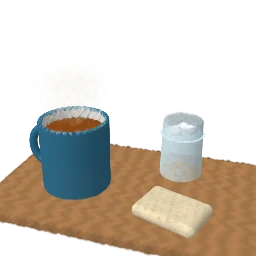
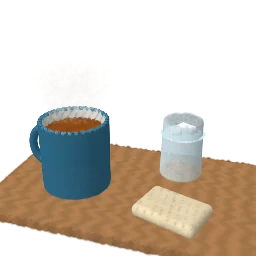
Phase Imaging: tests, screenshots and the lane's handoff
The lane's tests (tests/img.spec.mjs), its screenshots, and the thermal
camera without its color scale (it read as a stick behind the mug).

Claude-Session: https://claude.ai/code/session_01DyskmMrhX4jeS7kGy8wNU4

Changed region(s): [[0.1562, 0.4062, 0.4375, 0.5312], [0.6875, 0.4375, 0.7188, 0.4688]]

diff --git a/src/packs/imaging.js b/src/packs/imaging.js
@@ -409,8 +409,8 @@ export function xrayColor([o, n, mt]) {
   const ws = wo + wn + wm || 1;
   const hue = [0, 1, 2].map((k) => (XR_ORG[k] * wo + XR_INO[k] * wn + XR_MET[k] * wm) / ws);
   const a = 1 - Math.exp(-T * 2.2);
-  const dark = Math.exp(-Math.max(0, T - 1.3) * 0.75);
-  return [0, 1, 2].map((k) => (XR_BG[k] * (1 - a) + hue[k] * a) * (0.35 + 0.65 * dark));
+  const dark = Math.exp(-Math.max(0, T - 1.3) * 0.9);
+  return [0, 1, 2].map((k) => (XR_BG[k] * (1 - a) + hue[k] * a) * (0.15 + 0.85 * dark));
 }
 
 const XR = {
@@ -1840,22 +1840,6 @@ function buildThermal(k) {
       pattern: false,
     };
   });
-  // The camera's color scale, beside the scene, in thermal view only.
-  k.cloud({ share: 0.012, jitter: 0 }, (rand, i, n) => {
-    const t = rand();
-    const w = rand() - 0.5;
-    const T = TH.lo + (TH.hi - TH.lo) * t;
-    return {
-      p: [-1.35, 0.05 + 1.0 * t, -0.85 + w * 0.06],
-      color: ironColor(T),
-      n: [0, 0, 1],
-      size: 0.8,
-      kind: "fade",
-      params: [0, -0.99],
-      channel: 1 + (i % 3),
-      pattern: false,
-    };
-  });
   k.reach([0, 1.6, 0]);
 }
 
@@ -1938,7 +1922,8 @@ export const RECIPES = {
     controls: [{ key: "dense", label: "Shell only", type: "toggle", ease: 1.6 }],
     action: { key: "dense", label: "Shell only, or the whole walnut" },
     note: "Drag up or down on the walnut to cut into it.",
-    drag: cutDrag(walnutCut, (p) => p[1]),
+    // (Its recipe units are voxels; a drag across the walnut cuts all the way.)
+    drag: cutDrag(walnutCut, (p) => p[1] / 75),
     credits: [
       {
         label: "Walnut",

diff --git a/docs/handoff/Imaging.md b/docs/handoff/Imaging.md
@@ -9,10 +9,9 @@ port 4173 (no `SPLASHERY_PORT`), messages arrive in your session as "From the Op
 comments), you finish every working turn with a final message that starts "READY:", "WORKING:" or
 "BLOCKED:" (and keep the same line at the top of "## State
 
-WORKING: started October 5, 2026 (cloud session, Opus 5.5). The engine PR is open: #274, "Engine: a
-cutting plane and a density window (the volume kit kind)", on `claude/lane-imaging-engine`, merged
-into this branch. It should merge first. Items 1 to 6 are built; next: clips on the Effect review
-page, my own tests, then an idea of my own.
+READY: October 5, 2026 (cloud session, Opus 5.5). Items 1 to 6 of the brief are built, with clips on
+Effect review page 2 (cards `img-*`, lane id `Imaging`). Item 7 (ideas of my own) is not built. The
+engine PR #274 should merge first; it is merged into this branch.
 
 - [x] 1. Airport X-ray scanner (`airport-xray`)
 - [x] 2. How CT works (`how-ct`): a kit-built nautilus shell
@@ -21,19 +20,42 @@ page, my own tests, then an idea of my own.
 - [x] 4. MRI of a fruit (`fruit-mri`): kit-built kiwi and orange slices
 - [x] 5. Electron microscope (`electron-microscope`): pollen, diatoms, a rimed snowflake
 - [x] 6. Thermal camera (`thermal-camera`): tea cooling, a hand warmer, ice water
-- [ ] 7. Ideas of my own (up to two)
+- [ ] 7. Ideas of my own: not built (candidates: a ship's sonar sweeping a wreck on the seafloor, an
+     ultrasound of an egg).
 
 ## Notes
 
-- The engine piece: kit kind `volume` (`params: [density]`), driven by
+- The engine piece (#274): kit kind `volume` (`params: [density]`), driven by
   `out.volume = { normal, at, slab, window, glow, glowWidth }` (recipe coordinates). The cut is
   measured at each splat's rest place. Test: `tests/img-engine.spec.mjs`.
+- A new shelf, `imaging` ("Imaging"), after Science in `CATEGORIES`. Every toy is `labs: true`.
+- `tools/img-walnut.mjs` reads Walnut 1's reconstruction from the 6 GB zip with HTTP range requests
+  (run it with `NODE_USE_ENV_PROXY=1` in the cloud; Zenodo needs a user agent of its own) and writes
+  `assets/toys/walnut-ct/walnut.vol.gz` (490 KB, loaded only when the toy opens). The recipe
+  resamples it to the device's budget (60k to 280k splats).
+- The MRI is anisotropic like a real scan: 26 slices, fine in each slice; a slab of the cut shows
+  one.
+- The electron microscope's zoom steps glide the camera with `out.view`, which needs a `focus` (it
+  returns false, so a double-tap does nothing; single taps wait about 0.3 s). `effect-clip.mjs`
+  holds the camera, so its clips were recorded in real time by a small script.
+- The thermal camera crossfades a visible copy and three thermal copies (hot, warm, cooled tea) on
+  the four fade channels.
+- Specs run: `tests/img-engine.spec.mjs` (WebGL2 and WebGPU), `tests/img.spec.mjs`,
+  `tests/kit.spec.mjs`, `tests/taps.spec.mjs`. Not the full suite (the Integrators run it).
 
 ## Known issues
 
-None yet.
+- The airport scanner's next bag is set down from just above the belt and appears there (a short
+  pop), and the last bag is lifted out of view; a real person's hands are not shown.
+- The electron microscope's pictures are shaded for the view from above; turned far to the side the
+  baked edges and shadow no longer match the view.
+- How CT works: the drag works only once the shell is scanned.
 
 ## For the Operator
 
+- Effect review page 2 has no `lanes/Imaging` record yet; the cards use lane id `Imaging`.
 - For PACKS.md (section 5, after the levers): the `volume` kind and `out.volume`, as in the Notes
-  above.
+  above; and that `out.view` zoom steps need `focus: () => false` when the toy has no focus of its
+  own.
+- For BACKLOG.md: item 7 (a sonar or an ultrasound toy), and more real CT scans from the sources
+  report (the gar fish, the ant), which `tools/img-walnut.mjs` could read the same way.

diff --git a/docs/TOY-PLAN.md b/docs/TOY-PLAN.md
@@ -2996,9 +2996,9 @@ Proposals below are suggestions; the owner may change them.
   - Owner: The owner's imaging idea of October 3, 2026: a thermal camera with a cup of hot tea
     cooling and a hand warmer (lane Imaging; labs only).
   - Effect: A kit-built mug of tea, a hand warmer and a glass of ice water on a table. The tap
-    crossfades from normal colors to the thermal camera's false colors (the iron palette, with a
-    color scale), and the tea cools from about 72 to 34 °C over about 24 seconds while its steam
-    thins; the warmer stays warm and the ice water cold. A second tap goes back to normal colors.
+    crossfades from normal colors to the thermal camera's false colors (the iron palette), and the
+    tea cools from about 72 to 34 °C over about 24 seconds while its steam thins; the warmer stays
+    warm and the ice water cold. A second tap goes back to normal colors.
   - Improved: Imaging: new toy.
   - Sound: The camera's shutter clicking twice as it calibrates and a soft tick; a lower click as it
     turns off.
